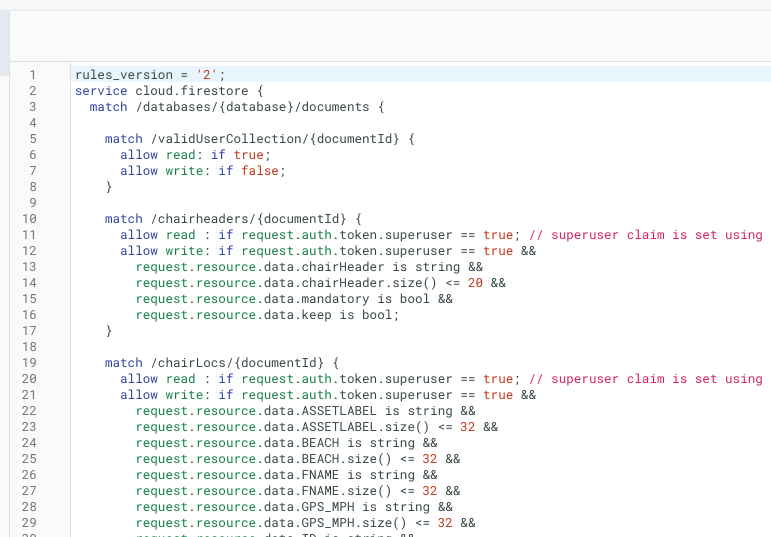
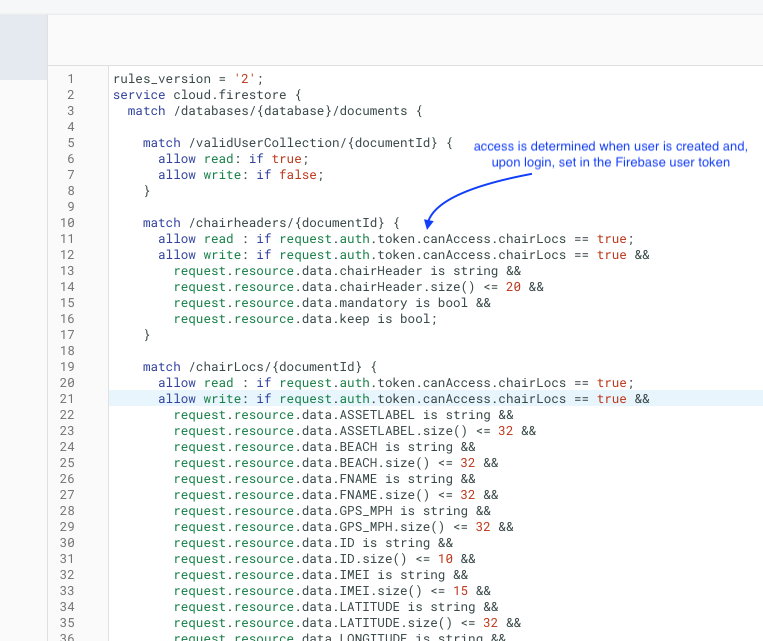
r

diff --git a/README.md b/README.md
@@ -241,7 +241,7 @@ providerData:[{uid: "107324-------------16", displayName: "TT MM", email: "junqu
 
 ```
 
-Okay -- the user has to have logged in first! Not sure this is going to work.
+What I've seen is that the user has to have logged in before a Firebase user object exists. So, I'll need to set the access privileges upon login, not at time of user addition.
 
 #### TODO:
 
